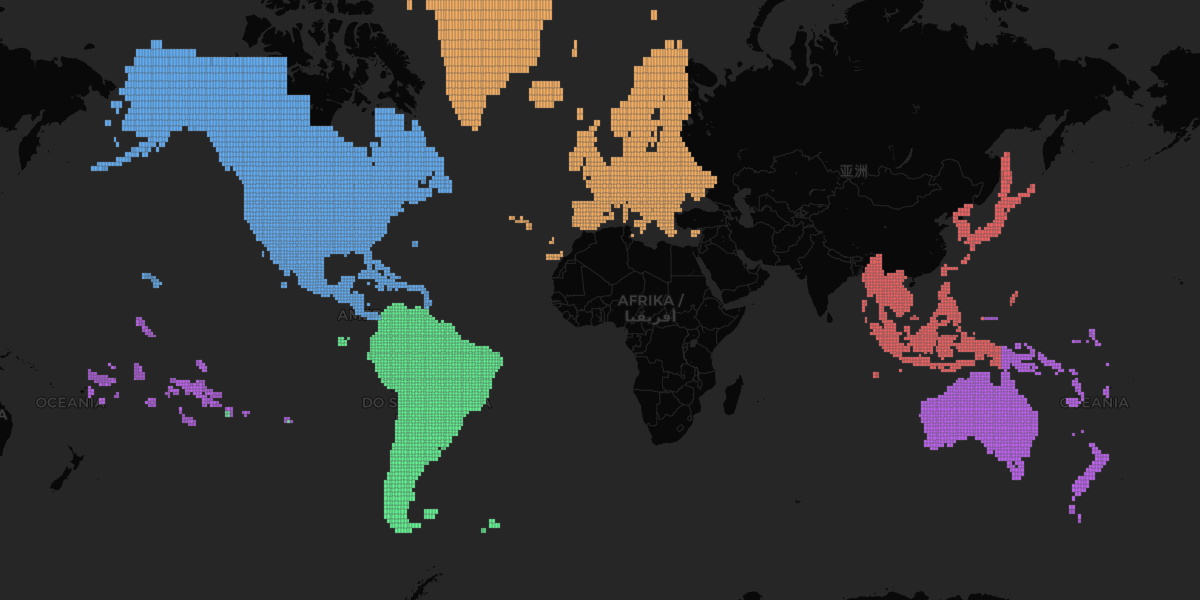
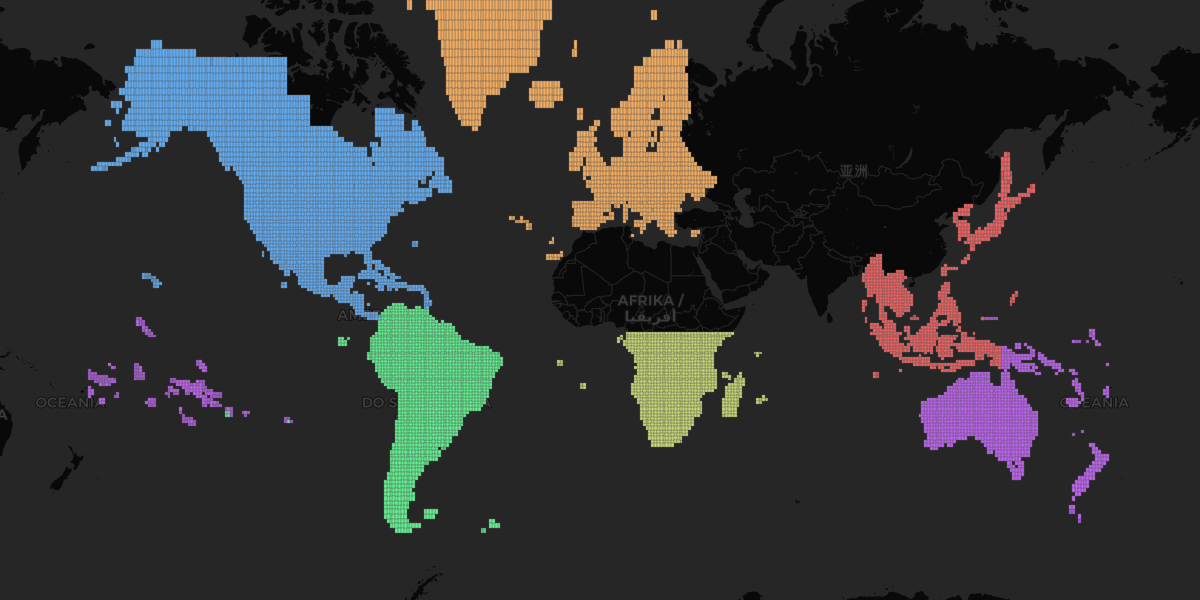
chore: sync package library and update docs
Automatically synced from xearthlayer-regional-scenery repository.

Changed region(s): [[0.5242, 0.54, 0.6167, 0.75]]

diff --git a/content/docs/packages.md b/content/docs/packages.md
@@ -10,10 +10,11 @@ XEarthLayer uses a package system to manage regional scenery from across the glo
 
 ![Coverage Map](/images/coverage.png)
 
-*AS3 in red, EU in orange, NA in blue, OC in purple, SA in green.*
+*AF2 in yellowgreen, AS3 in red, EU in orange, NA in blue, OC in purple, SA in green.*
 
 | Code | Region | Version | Coverage |
 |------|--------|---------|----------|
+| AF2 | Africa - Part 2 | 0.1.0 | Southern Africa including South Africa, Namibia, Botswana, Zimbabwe, Zambia, Mozambique, Madagascar, Tanzania, Kenya, DRC |
 | AS3 | Asia - Part 3 | 0.1.0 | Indonesia, Malaysia, Philippines, Vietnam, Thailand, Japan, South Korea, Taiwan, Eastern Russia |
 | EU | Europe | 0.1.1 | Western and Central Europe |
 | NA | North America | 0.2.3 | United States, Canada, Caribbean |
